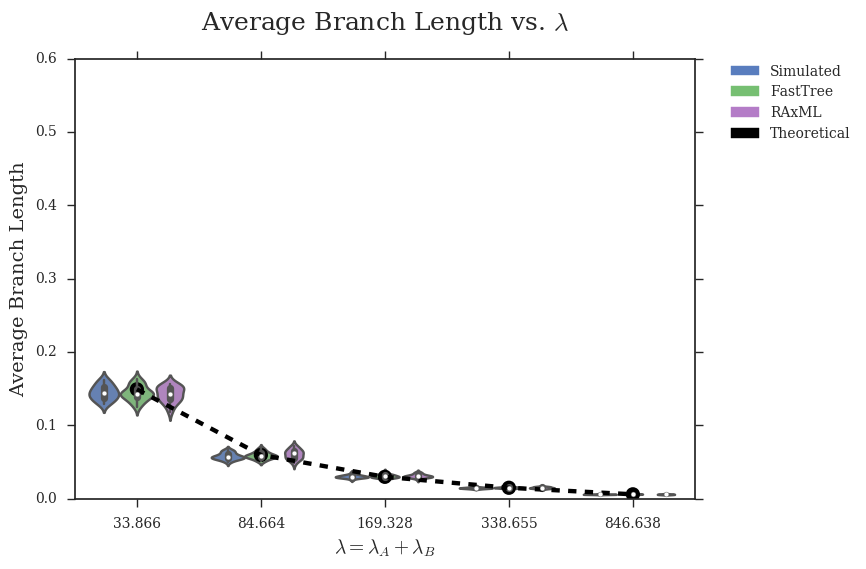
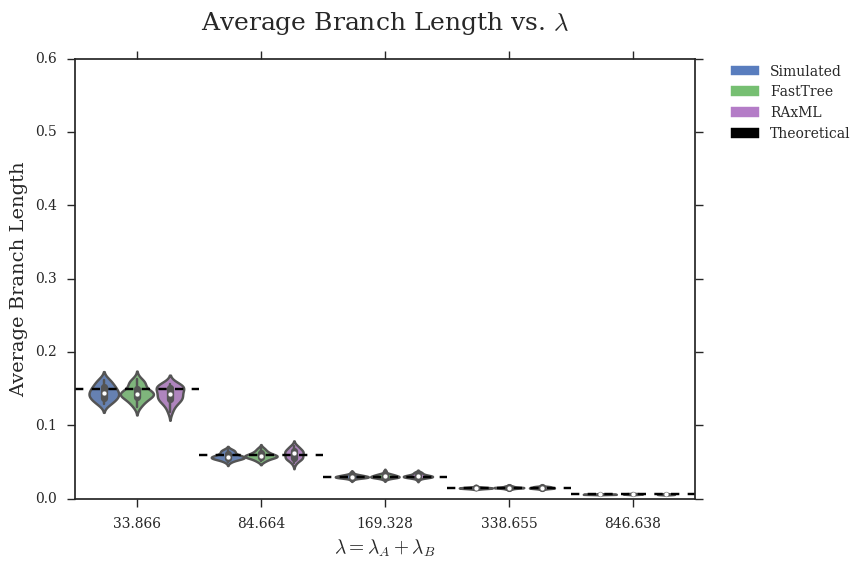
Fixed theoretical lines

diff --git a/figures/scripts/2_average-branch-length-vs-params.py b/figures/scripts/2_average-branch-length-vs-params.py
@@ -283,7 +283,12 @@ for i in range(len(l_original['avgbranch'])):
     df['category'][currNum] = 'raxml'
 df = pd.DataFrame(df)
 ax = sns.violinplot(x='lambda',y='avgbranch',hue='category',data=df,order=x,palette=pal)
-sns.pointplot(x,exp_branch_length_vs_r_l(0.01,x),label='Theoretical',linestyles=['--'],color=pal['theoretical'])
+plt.plot([-0.5,0.5],[0.149117108605]*2,label='Theoretical',linestyle='--',color=pal['theoretical'])
+plt.plot([0.5,1.5],[0.0596475479543]*2,label='Theoretical',linestyle='--',color=pal['theoretical'])
+plt.plot([1.5,2.5],[0.0298237739771]*2,label='Theoretical',linestyle='--',color=pal['theoretical'])
+plt.plot([2.5,3.5],[0.0149119310212]*2,label='Theoretical',linestyle='--',color=pal['theoretical'])
+plt.plot([3.5,4.5],[0.00596476888588]*2,label='Theoretical',linestyle='--',color=pal['theoretical'])
+#sns.pointplot(x,exp_branch_length_vs_r_l(0.01,x),label='Theoretical',linestyles=['--'],color=pal['theoretical'])
 plt.yticks(axisY); plt.ylim(axisY[0],axisY[-1])
 legend = plt.legend(handles=handles,bbox_to_anchor=(1.05, 1), loc=2, borderaxespad=0.)
 sns.plt.xlabel(r'$\lambda = \lambda_A + \lambda_B$',fontsize=14)
